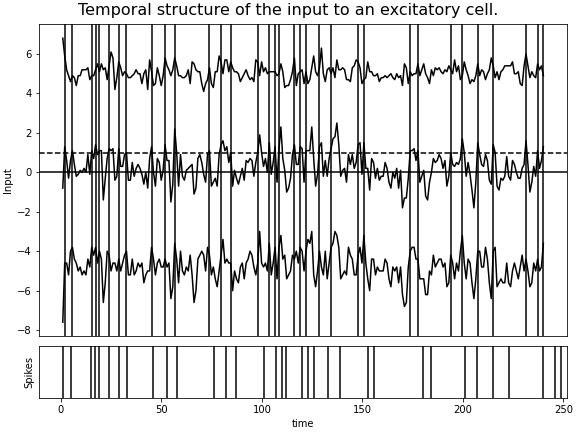
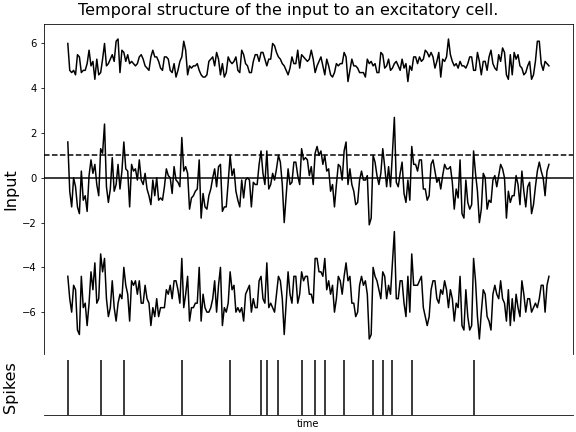
updated

Changed region(s): [[0.0, 0.0602, 1.0, 0.9931], [0.0, 0.8426, 0.0625, 0.963]]

diff --git a/net_model/net_wrapper.py b/net_model/net_wrapper.py
@@ -17,17 +17,13 @@ for K in Ks:
     N_I=1000
     N=N_E+N_I
     #K=100
-    T = 250*N
-    size = T*2
+    T = 250
     c_double_p = ctypes.POINTER(ctypes.c_double)
     f = ctypes.CDLL(dir_path+'/library.so').simulate
-    #f.restype = ctypes.POINTER(ctypes.c_int * size)
     f.argtypes = [ctypes.c_int, ctypes.c_int, ctypes.c_int, c_double_p, c_double_p]
 
     exp_e=ctypes.c_double()
     exp_i=ctypes.c_double()
-    #spikes = list(f(ctypes.c_int(N_E), ctypes.c_int(N_I), ctypes.c_int(K), ctypes.byref(exp_e), ctypes.byref(exp_i)).contents)
-    #spikes = np.reshape(spikes, (2,500000))
     spikes = f(ctypes.c_int(N_E), ctypes.c_int(N_I), ctypes.c_int(K), ctypes.byref(exp_e), ctypes.byref(exp_i))
 
     me = np.loadtxt('./me.txt')
@@ -51,32 +47,29 @@ for K in Ks:
 
     fig, axs = plt.subplots(2, constrained_layout=True, figsize=(8,6))
     fig.patch.set_facecolor('white')
+    fig.suptitle('#active cells', fontsize=16)
 
     axs[0].set_title('Excitatory cells')
     axs[0].plot(me)
     axs[0].axhline(y=exp_e.value*N_E, color='r', linestyle='-')
-    fig.suptitle('#active cells', fontsize=16)
     axs[1].set_title('Inhibitory cells')
     axs[1].plot(mi)
     axs[1].axhline(y=exp_i.value*N_I, color='r', linestyle='-')
-
     fig.savefig(f"./rates_figures/K_{K}.png")
     plt.close()
 
     fig, axs = plt.subplots(2, constrained_layout=True, figsize=(16,9))
     fig.patch.set_facecolor('white')
-
     fig.suptitle('Neuron spikes', fontsize=16)
+    
     max_cell = 50
     beg = 0
-
     axs[0].set_title('Excitatory cells')
     for i in range(100):
         spikes_t = np.array(spikes_e[beg+i])
         spikes_t = spikes_t[spikes_t<max_cell]
         axs[0].scatter(np.repeat(beg+i,spikes_t.shape[0]), spikes_t, s=3, marker='s', color='black')
     axs[0].set_xlabel('time')
-    fig.suptitle('Spikes', fontsize=16)
     axs[1].set_title('Inhibitory cells')
     for i in range(100):
         spikes_t = np.array(spikes_i[beg+i])
@@ -86,24 +79,28 @@ for K in Ks:
     fig.savefig(f"./spikes_figures/K_{K}.png")
     plt.close()
 
-    fig, axs = plt.subplots(2, constrained_layout=True, figsize=(8,6), gridspec_kw={'height_ratios': [6, 1]})
+    fig, axs = plt.subplots(2, constrained_layout=True, figsize=(8,6), gridspec_kw={'height_ratios': [6, 1]}, sharex=True)
     fig.patch.set_facecolor('white')
+    fig.suptitle('Temporal structure of the input to an excitatory cell.', fontsize=16)
 
-    axs[0].set_ylabel('Input')
+    axs[0].set_ylabel('Input', fontsize=16)
     axs[0].plot(obs_ex, color='black')
     axs[0].plot(obs_in, color='black')
     axs[0].plot(obs_ex+obs_in, color='black')
     axs[0].axhline(y=0, color='black', linestyle='-')
     axs[0].axhline(y=1, color='black', linestyle='--')
-    axs[0].set_xticks([])
-    for spike in obs_spikes:
-        axs[0].axvline(x=spike, color='black', linestyle='-')
-    fig.suptitle('Temporal structure of the input to an excitatory cell.', fontsize=16)
-    axs[1].set_ylabel('Spikes')
+    axs[0].spines['bottom'].set_visible(False)
+    axs[1].set_ylabel('Spikes', fontsize=16)
     for spike in obs_spikes:
         axs[1].axvline(x=spike, color='black', linestyle='-')
     axs[1].set_yticks([])
+    axs[1].set_xticks([0,T])
+    axs[0].set_xticks([])
     axs[1].set_xlabel('time')
+    axs[1].spines['right'].set_visible(False)
+    axs[1].spines['left'].set_visible(False)
+    axs[1].spines['top'].set_visible(False)
+    fig.align_ylabels(axs)
     fig.savefig(f"./obs_figures/K_{K}.png")
     plt.close()
 

diff --git a/net_model/net_model.cpp b/net_model/net_model.cpp
@@ -27,12 +27,6 @@ bool heaviside(double x) {
     }
 }
 
-double dist() {
-    default_random_engine generator(time(0));
-    bernoulli_distribution distribution(probs[0]);
-    return distribution(generator);
-}
-
 double h(double x) {
     return -sqrt(2*fabs(log(x)));
 }
@@ -141,12 +135,9 @@ extern "C" int simulate(int N_E, int N_I, int K, double* exp_e, double* exp_i) {
     ofstream obs_ex_file ("obs_ex.txt");
     ofstream obs_in_file ("obs_in.txt");
     ofstream obs_spikes_file ("obs_spikes.txt");
-    //uniform_int_distribution<> distr(0, N-1);
     vector<int> indices(N);
     iota(indices.begin(), indices.end(), 0);
     const int T=250;
-    //int *spikes = new int[2*T];
-    //memset(spikes, 0, sizeof *spikes * 2 * T);
     int idx, before, after;
     double ue, ui;
     me_file << n_active_e << '\n';
@@ -154,7 +145,6 @@ extern "C" int simulate(int N_E, int N_I, int K, double* exp_e, double* exp_i) {
     for (int i = 0; i < T; i++) {
         random_shuffle(indices.begin(), indices.end());
         for (int j = 0; j < N; j++) {
-            //idx = distr(generator);
             idx = indices[j];
             before = population[idx].active;
             population[idx].update();
@@ -202,38 +192,6 @@ extern "C" int simulate(int N_E, int N_I, int K, double* exp_e, double* exp_i) {
         mi_file << n_active_i << '\n';
     }
 
-    /*
-    const int T=250*N;
-    int *spikes = new int[2*T];
-    memset(spikes, 0, sizeof *spikes * 2 * T);
-    int idx, before, after;
-    for (int t = 0; t < T; t++) {
-        idx = distr(generator);
-        before = population[idx].active;
-        population[idx].update();
-        after = population[idx].active;
-        if (after-before == 1) {
-            spikes[population[idx].k*T+t] = 1;
-            if (population[idx].k == 0) {
-                se_file << population[idx].i << ' ';
-                n_active_e++;
-            } else {
-                si_file << population[idx].i << ' ';
-                n_active_i++;
-            }
-        } else if (after-before == -1) {
-            if (population[idx].k == 0) {
-                n_active_e--;
-            } else {
-                n_active_i--;
-            }
-        }
-        me_file << n_active_e << '\n';
-        mi_file << n_active_i << '\n';
-    }
-    */
-
-
     //printf("Final number of excitatory active cells is %.2f\n", (double)n_active_e/N_E*100);
     //printf("Final number of inhibitory active cells is %.2f\n", (double)n_active_i/N_I*100);
     
@@ -257,8 +215,13 @@ extern "C" int simulate(int N_E, int N_I, int K, double* exp_e, double* exp_i) {
     */
 
     //delete[] spikes;
+    for (int k = 0; k < J.size(); ++k){     
+        J[k].clear();
+        J[k].shrink_to_fit();   
+    }
+    J.clear();
+    J.shrink_to_fit();
     vector<Cell>().swap(population);
-    //vector<vector<double>>().swap(J);
     vector<double>().swap(ext);
     vector<double>().swap(theta);
     vector<double>().swap(probs);
